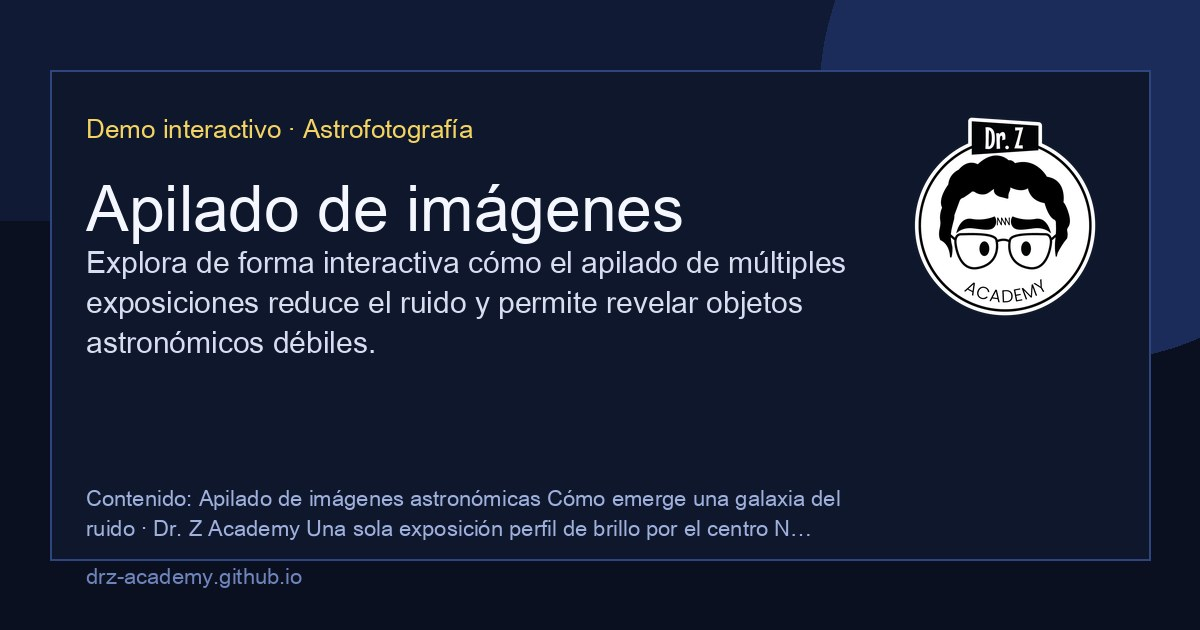
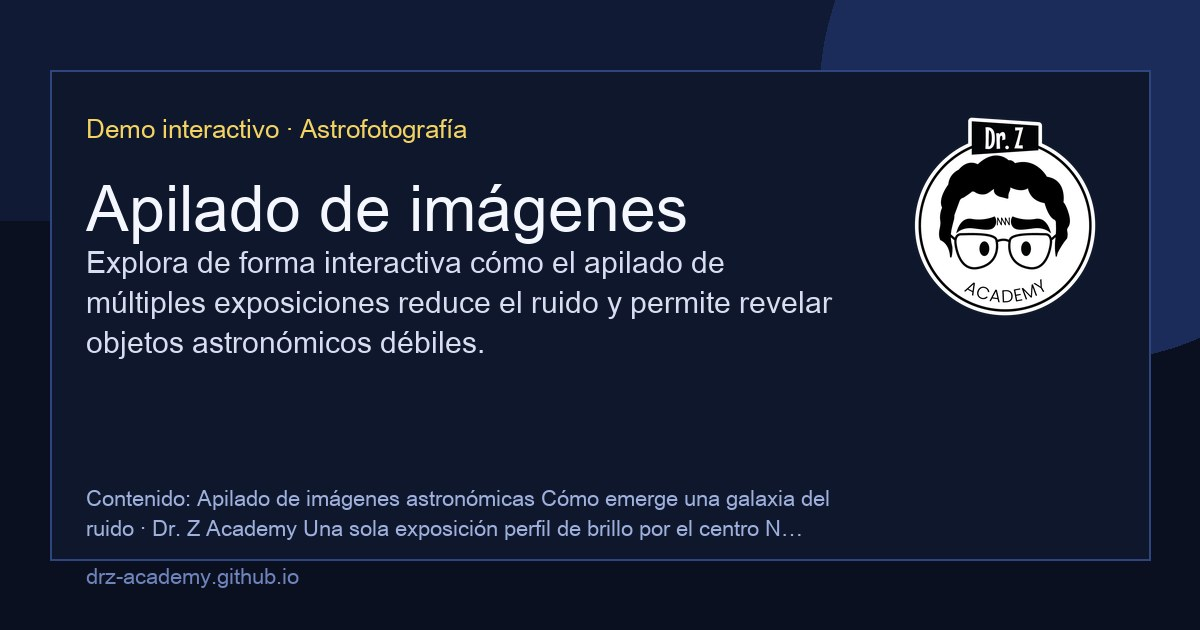
docs: update developer guide and Makefile with quickstart command; enhance course description and expert section in Círculo Latino

diff --git a/cursos/circulo-latino/index.html b/cursos/circulo-latino/index.html
@@ -367,38 +367,41 @@
 
     <h1 class="section-title">Presentación</h1>
     <div class="section-body"><p><strong>El latín no es una lengua muerta: late en cada frase que pronunciamos en español, en la raíz de nuestro pensamiento, en la ciencia, en el arte y en la historia de Occidente.</strong> Y, sin embargo, a menudo se nos ha enseñado como una disciplina árida de listas interminables y castigos memorísticos.</p>
-<p><strong>¡El latín es, ante todo, un placer!</strong> Saber cómo funciona es como recibir unas gafas especiales para mirar el mundo: de repente, las palabras de nuestra vida cotidiana revelan sus secretos, los nombres de las constelaciones y las especies cobran vida, y las frases grabadas en monumentos y libros antiguos dejan de ser jeroglíficos para convertirse en voces vivas que nos hablan al oído.</p>
-<p>En este curso, guiado por <strong>Antonio Bernal</strong>, reconocido divulgador científico, humanista y divulgador del Observatorio Fabra de Barcelona, comenzamos un camino progresivo, ameno y riguroso, pero lejos de la frialdad escolar o académica, que nos conducirá hacia el aprendizaje de los rudimentos fonéticos y gramaticales de la lengua.</p></div>
+<p>En este curso, guiado por <strong>Antonio Bernal</strong>, reconocido divulgador científico, humanista y divulgador del Observatorio Fabra de Barcelona, comenzamos un camino progresivo, ameno y riguroso, pero lejos de la frialdad escolar o académica, que nos conducirá hacia el aprendizaje de los rudimentos fonéticos y gramaticales de la lengua.</p>
+<div style="position: relative; width: 100%; height: 0; padding-bottom: 56.25%; overflow: hidden; border-radius: 10px;">
+  <iframe src="https://www.youtube-nocookie.com/embed/sIiBnaY9OUU" title="Video de invitación al Círculo Latino" loading="lazy" referrerpolicy="strict-origin-when-cross-origin" allow="accelerometer; autoplay; clipboard-write; encrypted-media; gyroscope; picture-in-picture; web-share" allowfullscreen style="position: absolute; inset: 0; width: 100%; height: 100%; border: 0;"></iframe>
+</div></div>
 
-    <h2 class="section-title">El Círculo Latino de la Dr. Z Academy</h2>
-    <div class="section-body"><p><strong>Más que un curso: una comunidad viva alrededor de la lengua latina.</strong> A semejanza de organizaciones y colectivos que en distintas ciudades del mundo reúnen a personas amantes de la cultura clásica (<em>circuli latini</em>), el <strong>Círculo Latino de la Dr. Z Academy</strong> busca convertirse en un punto de encuentro permanente para entusiastas y estudiosos de todos los niveles. Nuestro objetivo es cultivar juntos el estudio, la pronunciación viva, la lectura compartida y la traducción tanto de obras clásicas como de textos medievales, renacentistas y modernos.</p>
-<p><strong>El primer ciclo de una aventura continua.</strong> Esta edición marca la apertura de un <strong>ciclo continuo de cursos</strong>. En lugar de ser este curso una iniciación corta a la lengua, esperamos que sea el primero de varios cursos similares en los que las personas puedan profundizar en aspectos de la lengua y la literatura latina. Como una característica especial, hemos previsto que <strong>las personas que se inscriban en futuras ediciones (otros ciclos de enseñanza del Círculo Latino)</strong> podrán disfrutar de acceso completo a los materiales, grabaciones y lecturas de los ciclos anteriores. De ese modo podrán ponerse al día y avanzar con el grupo.</p></div>
+    <h2 class="section-title">Un vistazo al contenido</h2>
+    <div class="section-body"><p>El programa está concebido de manera orgánica y progresiva para que cualquier persona, sin importar su trasfondo, empiece a leer y traducir latín desde las primeras lecciones:</p>
+<div class="topics-list">
+<p><strong>El latín es un placer.</strong> Importancia del latín —en especial para el hispanoparlante—. Descubrir cómo nuestra propia lengua cobra una dimensión insospechada al rastrear sus orígenes.<br />
+<strong>Escritores y escritos latinos.</strong> Un panorama por los autores que forjaron la literatura clásica: de Cicerón y Virgilio a Séneca y Horacio. Ejemplo ilustrativo de latín arcaico.<br />
+<strong>Alfabeto y pronunciación del latín.</strong> Sonidos, acentuación y normas fonéticas clásicas. Primeras lecturas en voz alta (sin traducción previa) para educar el oído y la voz.<br />
+<strong>El sistema de las flexiones.</strong> El secreto arquitectónico de la lengua latina: por qué las terminaciones de las palabras cuentan la función sintáctica sin necesidad de tantas preposiciones.<br />
+<strong>Las declinaciones.</strong> Casos (nominativo, vocativo, acusativo, genitivo, dativo y ablativo), géneros y números explicados de forma clara, lógica e intuitiva.<br />
+<strong>Primera declinación y vocabulario.</strong> Estructura de sustantivos y adjetivos de la primera declinación, vocabulario base y primeros ejercicios prácticos de traducción guiada.<br />
+<strong>Segunda declinación.</strong> Sustantivos masculinos y neutros, concordancias y ampliación del vocabulario. Ejercicios progresivos de traducción.<br />
+<strong>Lectura y traducción de textos reales.</strong> Aplicación directa de los conceptos aprendidos para descifrar frases célebres, lemas, epigrafías y textos de autores clásicos.</p>
+</div>
+<p><em>Nota:</em> Este programa preliminar tomará un mínimo de 5 de las 8 sesiones previstas; el ritmo y la profundización en textos adicionales se adaptarán a la respuesta, el interés y la participación de los asistentes.</p></div>
 
     <h2 class="section-title">¿Quién es el experto?</h2>
     <div class="section-body"><p><div class="photo-grid photo-grid--single">
       <img src="images/antonio-bernal.jpeg" alt="Foto del curso" loading="lazy">
     </div></p>
 <p><strong>Antonio Bernal González</strong> es <strong>ingeniero mecánico</strong> de la <strong>Universidad Pontificia Bolivariana</strong> (Medellín) y ha dedicado más de cuatro décadas al estudio, la docencia y la divulgación de las ciencias y las humanidades. Entre 1984 y 1999 impartió cursos y talleres en el <strong>Planetario de Medellín</strong>, institución de la que fue nombrado <strong>director</strong> en el año 2000.</p>
-<p>Desde 2001 reside en España, donde en 2003 se le encomendó la divulgación científica del histórico <strong>Observatorio Fabra de Barcelona</strong> (adscrito a la Real Academia de Ciencias y Artes de Barcelona), centro al que continúa vinculado. Es colaborador mensual de la revista <em>Astronomía</em> (Madrid) desde 2002 —con más de 300 artículos publicados—, autor de obras como <em>Guía Turística del Cielo</em>, <em>De King Kong a Einstein</em>, <em>Manual de Relojes de Sol</em> y <em>Cenit</em>, constructor de reconocidos relojes de sol públicos y privados en Colombia y España, y <strong>coanfitrión, desde 2021, junto a Jorge I. Zuluaga (Doctor Z), del podcast semanal <a href="https://open.spotify.com/show/2GctiC1Et0fGRaS8PYP0mJ"><em>Punto Bernal</em></a></strong>.</p>
-<p>En reconocimiento a su prolífica trayectoria científica y educativa, la Universidad Pontificia Bolivariana le otorgó el galardón <strong>Talento Bolivariano</strong> (2009) y la Unión Astronómica Internacional bautizó en su honor el asteroide <strong>195892 Antbernal</strong>. En este <em>Círculo Latino</em>, Antonio asume la investidura de <strong>Grammaticus</strong>, compartiendo su profunda devoción por la lengua clásica con la cercanía, la claridad y el entusiasmo didáctico que caracterizan su magisterio. Más sobre su trayectoria en <a href="https://puntovernal.es/">puntovernal.es</a>.</p></div>
-
-    <h2 class="section-title">Un vistazo al contenido</h2>
-    <div class="section-body"><p>El programa está concebido de manera orgánica y progresiva para que cualquier persona, sin importar su trasfondo, empiece a leer y traducir latín desde las primeras lecciones:</p>
-<div class="topics-list">
-<p><strong>1. El latín es un placer.</strong> Importancia del latín —en especial para el hispanoparlante—. Descubrir cómo nuestra propia lengua cobra una dimensión insospechada al rastrear sus orígenes.<br />
-<strong>2. Escritores y escritos latinos.</strong> Un panorama por los autores que forjaron la literatura clásica: de Cicerón y Virgilio a Séneca y Horacio. Ejemplo ilustrativo de latín arcaico.<br />
-<strong>3. Alfabeto y pronunciación del latín.</strong> Sonidos, acentuación y normas fonéticas clásicas. Primeras lecturas en voz alta (sin traducción previa) para educar el oído y la voz.<br />
-<strong>4. El sistema de las flexiones.</strong> El secreto arquitectónico de la lengua latina: por qué las terminaciones de las palabras cuentan la función sintáctica sin necesidad de tantas preposiciones.<br />
-<strong>5. Las declinaciones.</strong> Casos (nominativo, vocativo, acusativo, genitivo, dativo y ablativo), géneros y números explicados de forma clara, lógica e intuitiva.<br />
-<strong>6. Primera declinación y vocabulario.</strong> Estructura de sustantivos y adjetivos de la primera declinación, vocabulario base y primeros ejercicios prácticos de traducción guiada.<br />
-<strong>7. Segunda declinación.</strong> Sustantivos masculinos y neutros, concordancias y ampliación del vocabulario. Ejercicios progresivos de traducción.<br />
-<strong>8. Lectura y traducción de textos reales.</strong> Aplicación directa de los conceptos aprendidos para descifrar frases célebres, lemas, epigrafías y textos de autores clásicos.</p>
-</div>
-<p><em>Nota:</em> Este programa preliminar tomará un mínimo de 5 de las 8 sesiones previstas; el ritmo y la profundización en textos adicionales se adaptarán a la respuesta, el interés y la participación de los asistentes.</p></div>
+<p>Desde 2001 reside en España, donde en 2003 se le encomendó la divulgación científica del histórico <strong>Observatorio Fabra de Barcelona</strong> (adscrito a la Real Academia de Ciencias y Artes de Barcelona), centro al que continúa vinculado. Es colaborador mensual de la revista <em>Astronomía</em> (Madrid) desde 2002 —con más de 300 artículos publicados—, autor de obras como <em>Guía Turística del Cielo</em>, <em>Manual de Relojes de Sol</em> y <em>Cenit</em>, constructor de reconocidos relojes de sol públicos y privados en Colombia y España, y <strong>coanfitrión, desde 2021, junto a Jorge I. Zuluaga (Doctor Z), del podcast semanal <a href="https://open.spotify.com/show/2GctiC1Et0fGRaS8PYP0mJ"><em>Punto Bernal</em></a></strong>.</p>
+<p>En reconocimiento a su prolífica trayectoria científica y educativa, la Universidad Pontificia Bolivariana le otorgó el galardón <strong>Talento Bolivariano</strong> (2009) y la Unión Astronómica Internacional bautizó en su honor el asteroide <strong>195892 Antbernal</strong>. En este <em>Círculo Latino</em>, Antonio asume la investidura de <strong>Grammaticus</strong>, compartiendo su profunda devoción por la lengua clásica con la cercanía, la claridad y el entusiasmo didáctico que caracterizan su magisterio. Más sobre su trayectoria en <a href="https://puntovernal.es/">puntovernal.es</a>.</p>
+<p>Además de su trabajo como astrónomo y divulgador de la astronomía, las ciencias y la técnica, Antonio es un apasionado estudioso del mundo clásico y del latín en particular.  A lo largo de los años, ha seguido cultivando este interés de forma autodidacta, profundizando en la lectura de los autores clásicos y en el estudio de la gramática y la sintaxis latina.</p></div>
 
     <h2 class="section-title">A quién va dirigida esta actividad</h2>
     <div class="section-body"><p>Este curso está dirigido a entusiastas de la lengua, lectores curiosos, estudiantes, docentes, profesionales de cualquier disciplina (humanidades, derecho, medicina, ciencias naturales, historia, filosofía, astronomía) y público general que desee descubrir la raíz de nuestra cultura y enriquecer su dominio del español.</p>
 <p><strong>No se requieren conocimientos previos</strong> de latín ni nociones de gramática avanzada. Solo se necesita curiosidad, deseo de aprender y gusto por desentrañar el significado detrás de las palabras. La edad mínima recomendada es de 14 años.</p></div>
+
+    <h2 class="section-title">El Círculo Latino de la Dr. Z Academy</h2>
+    <div class="section-body"><p><strong>Más que un curso: una comunidad viva alrededor de la lengua latina.</strong> A semejanza de organizaciones y colectivos que en distintas ciudades del mundo reúnen a personas amantes de la cultura clásica (<em>circuli latini</em>), el <strong>Círculo Latino de la Dr. Z Academy</strong> busca convertirse en un punto de encuentro permanente para entusiastas y estudiosos de todos los niveles. Nuestro objetivo es cultivar juntos el estudio, la pronunciación viva, la lectura compartida y la traducción tanto de obras clásicas como de textos medievales, renacentistas y modernos.</p>
+<p><strong>El primer ciclo de una aventura continua.</strong> Esta edición marca la apertura de un <strong>ciclo continuo de cursos</strong>. En lugar de ser este curso una iniciación corta a la lengua, esperamos que sea el primero de varios cursos similares en los que las personas puedan profundizar en aspectos de la lengua y la literatura latina. Como una característica especial, hemos previsto que <strong>las personas que se inscriban en futuras ediciones (otros ciclos de enseñanza del Círculo Latino)</strong> podrán disfrutar de acceso completo a los materiales, grabaciones y lecturas de los ciclos anteriores. De ese modo podrán ponerse al día y avanzar con el grupo.</p></div>
 
     <h2 class="section-title">Metodología</h2>
     <div class="section-body"><p>El <em>Círculo Latino</em> es una experiencia de formación virtual sincrónica de <strong>8 sesiones de 1 hora</strong> cada una:</p>

diff --git a/cursos/circulo-latino/curso.md b/cursos/circulo-latino/curso.md
@@ -37,17 +37,9 @@ activo: true
 
 En este curso, guiado por **Antonio Bernal**, reconocido divulgador científico, humanista y divulgador del Observatorio Fabra de Barcelona, comenzamos un camino progresivo, ameno y riguroso, pero lejos de la frialdad escolar o académica, que nos conducirá hacia el aprendizaje de los rudimentos fonéticos y gramaticales de la lengua.
 
-## ¿Quién es el experto?
-
-<!-- fotos1 -->
-
-**Antonio Bernal González** es **ingeniero mecánico** de la **Universidad Pontificia Bolivariana** (Medellín) y ha dedicado más de cuatro décadas al estudio, la docencia y la divulgación de las ciencias y las humanidades. Entre 1984 y 1999 impartió cursos y talleres en el **Planetario de Medellín**, institución de la que fue nombrado **director** en el año 2000.
-
-Desde 2001 reside en España, donde en 2003 se le encomendó la divulgación científica del histórico **Observatorio Fabra de Barcelona** (adscrito a la Real Academia de Ciencias y Artes de Barcelona), centro al que continúa vinculado. Es colaborador mensual de la revista *Astronomía* (Madrid) desde 2002 —con más de 300 artículos publicados—, autor de obras como *Guía Turística del Cielo*, *Manual de Relojes de Sol* y *Cenit*, constructor de reconocidos relojes de sol públicos y privados en Colombia y España, y **coanfitrión, desde 2021, junto a Jorge I. Zuluaga (Doctor Z), del podcast semanal [*Punto Bernal*](https://open.spotify.com/show/2GctiC1Et0fGRaS8PYP0mJ)**.
-
-En reconocimiento a su prolífica trayectoria científica y educativa, la Universidad Pontificia Bolivariana le otorgó el galardón **Talento Bolivariano** (2009) y la Unión Astronómica Internacional bautizó en su honor el asteroide **195892 Antbernal**. En este *Círculo Latino*, Antonio asume la investidura de **Grammaticus**, compartiendo su profunda devoción por la lengua clásica con la cercanía, la claridad y el entusiasmo didáctico que caracterizan su magisterio. Más sobre su trayectoria en [puntovernal.es](https://puntovernal.es/).
-
-Además de su trabajo como astrónomo y divulgador de la astronomía, las ciencias y la técnica, Antonio es un apasionado estudioso del mundo clásico y del latín en particular.  A lo largo de los años, ha seguido cultivando este interés de forma autodidacta, profundizando en la lectura de los autores clásicos y en el estudio de la gramática y la sintaxis latina.
+<div style="position: relative; width: 100%; height: 0; padding-bottom: 56.25%; overflow: hidden; border-radius: 10px;">
+  <iframe src="https://www.youtube-nocookie.com/embed/sIiBnaY9OUU" title="Video de invitación al Círculo Latino" loading="lazy" referrerpolicy="strict-origin-when-cross-origin" allow="accelerometer; autoplay; clipboard-write; encrypted-media; gyroscope; picture-in-picture; web-share" allowfullscreen style="position: absolute; inset: 0; width: 100%; height: 100%; border: 0;"></iframe>
+</div>
 
 ## Un vistazo al contenido
 
@@ -63,6 +55,18 @@ El programa está concebido de manera orgánica y progresiva para que cualquier 
 > **Lectura y traducción de textos reales.** Aplicación directa de los conceptos aprendidos para descifrar frases célebres, lemas, epigrafías y textos de autores clásicos.
 
 *Nota:* Este programa preliminar tomará un mínimo de 5 de las 8 sesiones previstas; el ritmo y la profundización en textos adicionales se adaptarán a la respuesta, el interés y la participación de los asistentes.
+
+## ¿Quién es el experto?
+
+<!-- fotos1 -->
+
+**Antonio Bernal González** es **ingeniero mecánico** de la **Universidad Pontificia Bolivariana** (Medellín) y ha dedicado más de cuatro décadas al estudio, la docencia y la divulgación de las ciencias y las humanidades. Entre 1984 y 1999 impartió cursos y talleres en el **Planetario de Medellín**, institución de la que fue nombrado **director** en el año 2000.
+
+Desde 2001 reside en España, donde en 2003 se le encomendó la divulgación científica del histórico **Observatorio Fabra de Barcelona** (adscrito a la Real Academia de Ciencias y Artes de Barcelona), centro al que continúa vinculado. Es colaborador mensual de la revista *Astronomía* (Madrid) desde 2002 —con más de 300 artículos publicados—, autor de obras como *Guía Turística del Cielo*, *Manual de Relojes de Sol* y *Cenit*, constructor de reconocidos relojes de sol públicos y privados en Colombia y España, y **coanfitrión, desde 2021, junto a Jorge I. Zuluaga (Doctor Z), del podcast semanal [*Punto Bernal*](https://open.spotify.com/show/2GctiC1Et0fGRaS8PYP0mJ)**.
+
+En reconocimiento a su prolífica trayectoria científica y educativa, la Universidad Pontificia Bolivariana le otorgó el galardón **Talento Bolivariano** (2009) y la Unión Astronómica Internacional bautizó en su honor el asteroide **195892 Antbernal**. En este *Círculo Latino*, Antonio asume la investidura de **Grammaticus**, compartiendo su profunda devoción por la lengua clásica con la cercanía, la claridad y el entusiasmo didáctico que caracterizan su magisterio. Más sobre su trayectoria en [puntovernal.es](https://puntovernal.es/).
+
+Además de su trabajo como astrónomo y divulgador de la astronomía, las ciencias y la técnica, Antonio es un apasionado estudioso del mundo clásico y del latín en particular.  A lo largo de los años, ha seguido cultivando este interés de forma autodidacta, profundizando en la lectura de los autores clásicos y en el estudio de la gramática y la sintaxis latina.
 
 ## A quién va dirigida esta actividad
 

diff --git a/DEVELOPER.md b/DEVELOPER.md
@@ -27,12 +27,13 @@ Dependencias Python (`requirements.txt`):
 ## Probar el sitio en local
 
 ```bash
+make quickstart # sirve la raíz del repo sin compilar ni preparar las apps
 make build    # compila apps Next.js y ensambla _site/
 make start    # sirve _site/ en http://127.0.0.1:8000
 make stop     # detiene el servidor
 ```
 
-El sitio local replica lo que publica GitHub Pages: página principal, cursos en `/cursos/<id>/`, demos en `/demos/<id>/` y apps en `/apps/...`.
+`make quickstart` sirve directamente los archivos estáticos del repositorio en `http://127.0.0.1:8000`; las apps de `/apps/...` no estarán compiladas. Para probar el sitio completo como lo publica GitHub Pages —página principal, cursos, demos y apps— usa `make build && make start`.
 
 ---
 
